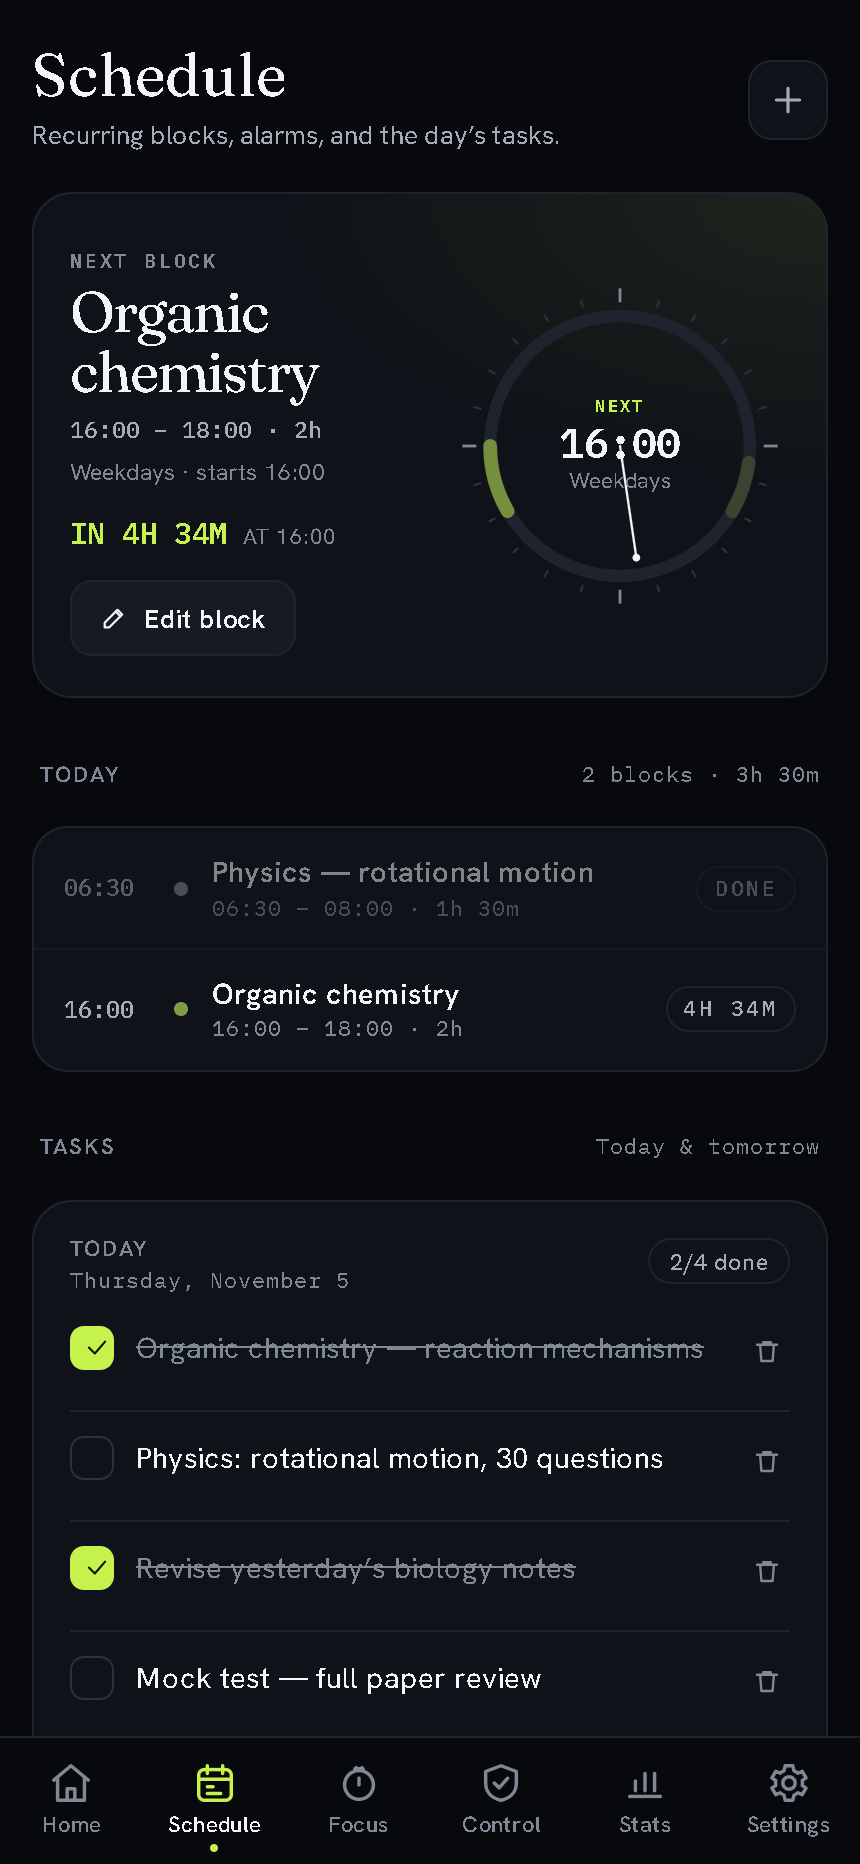
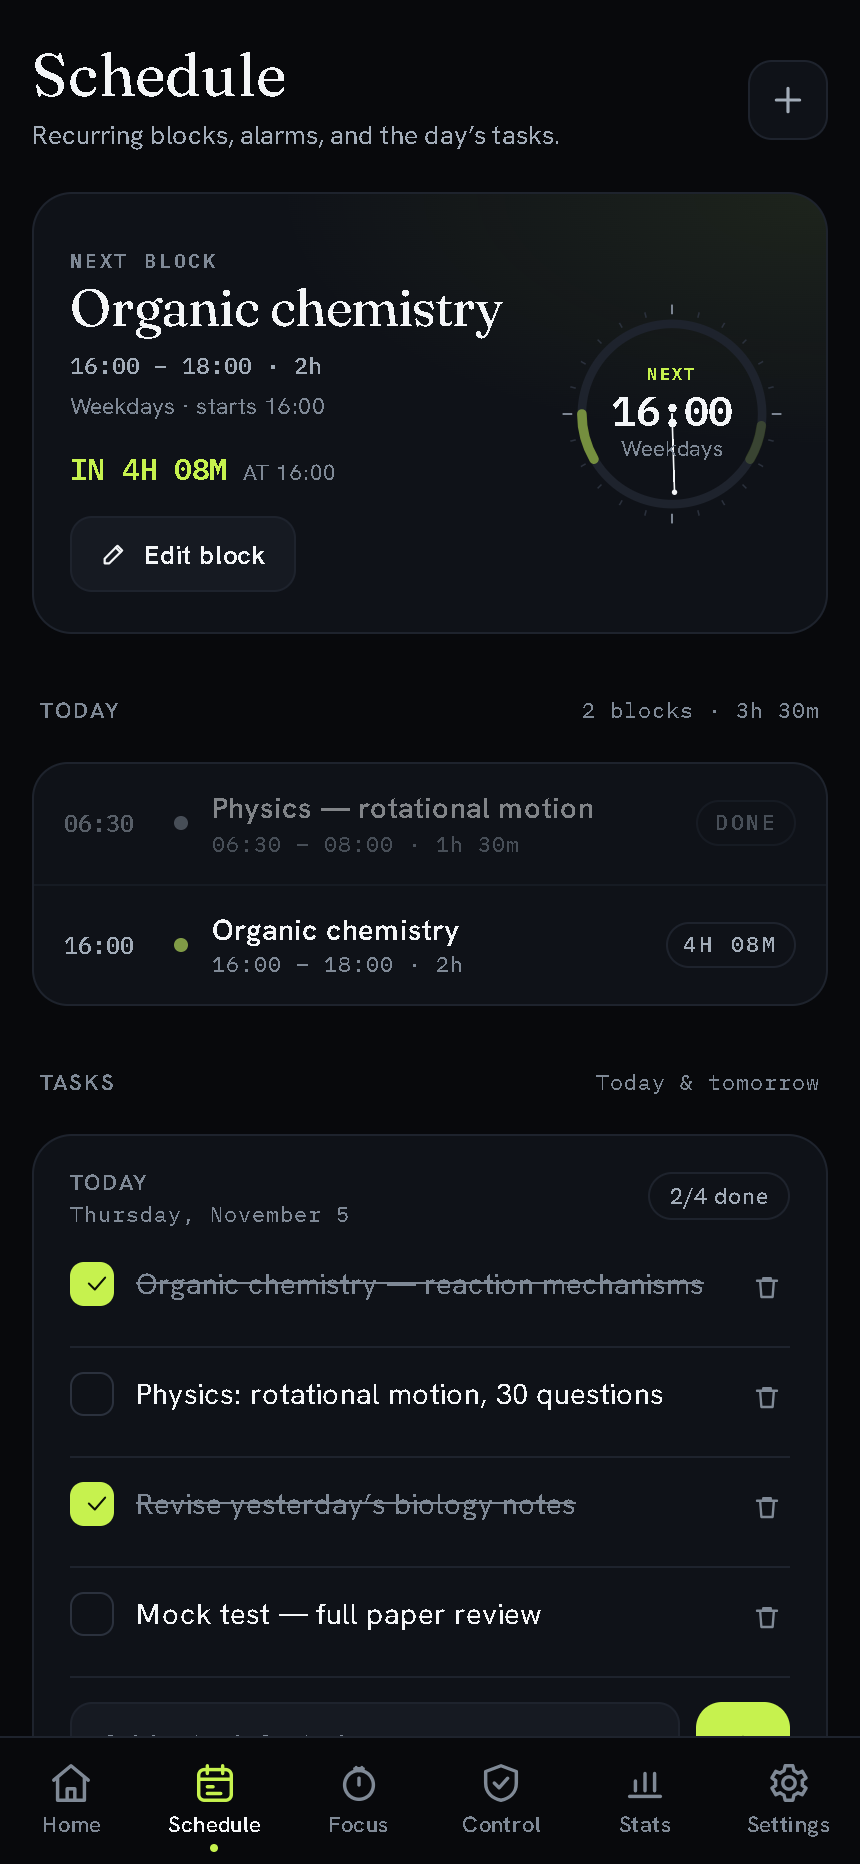
Fit Schedule and Settings on a 320 px phone (plan 7)

diff --git a/app/assets/css/app.css b/app/assets/css/app.css
@@ -847,6 +847,7 @@ body[data-mode='onboard'] #view {
   background: transparent;
   color: var(--tx-3);
   font: 500 11.5px/1 var(--font-sans);
+  white-space: nowrap;
   cursor: pointer;
   transition: background 160ms, border-color 160ms, color 160ms;
 }
@@ -2983,9 +2984,28 @@ body[data-mode='onboard'] #view {
 }
 
 @media (max-width: 380px) {
-  .sched-hero { grid-template-columns: minmax(0, 1fr) 128px; }
   .native-ctrl { gap: 6px; }
   .setrow .native-pill { display: none; }
+  /* The hint is redundant beside the Start button and steals the chip's room. */
+  .len-hint { display: none; }
+  /* A stepper or a segmented group is wider than the text column can spare on
+     a 320 px phone; give the copy the full row and set the control under it. */
+  .setrow:has(.stepper), .setrow:has(.segmented) { flex-wrap: wrap; row-gap: 10px; }
+  .setrow:has(.stepper) .txt, .setrow:has(.segmented) .txt { flex: 1 1 100%; }
+  .setrow:has(.stepper) .stepper, .setrow:has(.segmented) .segmented { margin-left: auto; }
+}
+
+@media (max-width: 430px) {
+  /* Keep the hero copy readable on a phone: a smaller ring buys the text
+     column enough room for the serif headline to breathe. */
+  .sched-hero { grid-template-columns: minmax(0, 1fr) 118px; gap: 8px; }
+  .sched-hero-card .sched-next-name { font-size: 26px; }
+}
+@media (max-width: 360px) {
+  /* Below 360 the two columns fight; stack the ring under the copy. */
+  .sched-hero { grid-template-columns: minmax(0, 1fr); }
+  .dayring-wrap { order: 2; justify-self: center; max-width: 128px; margin-top: 12px; }
+  .sched-hero-cta { white-space: nowrap; }
 }
 
 @media (min-width: 760px) {

diff --git a/CHANGELOG.md b/CHANGELOG.md
@@ -92,6 +92,9 @@ the Android shell follows once it ships.
   `:root` so theme-preview buttons cannot inherit the other theme.
 - Reduced motion turns off smooth scrolling too, and decorative SVGs are
   hidden from assistive technology.
+- Small phones: on a 320 px screen the Schedule hero stacks its ring, Settings
+  gives wide steppers and segmented groups their own line, and the pomodoro
+  chip no longer breaks mid-label.
 
 ### Verification and docs
 
